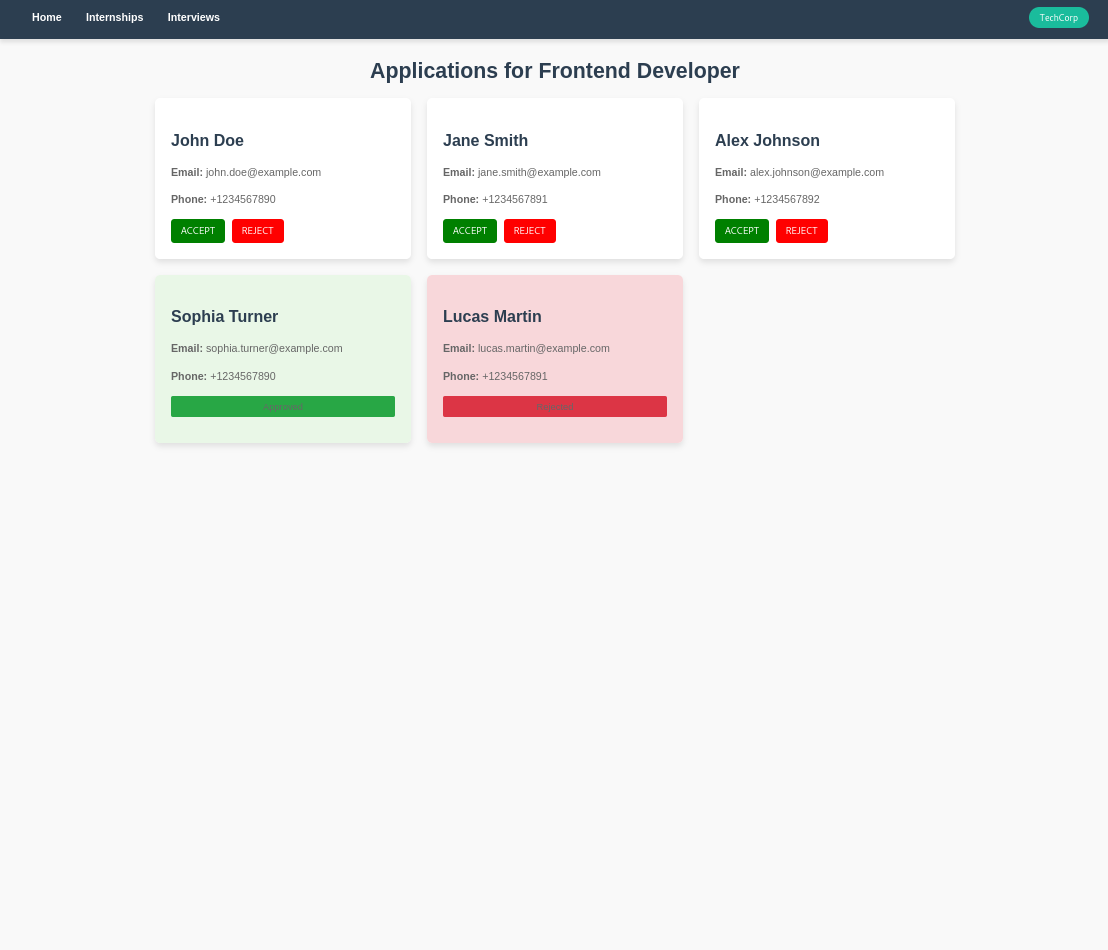
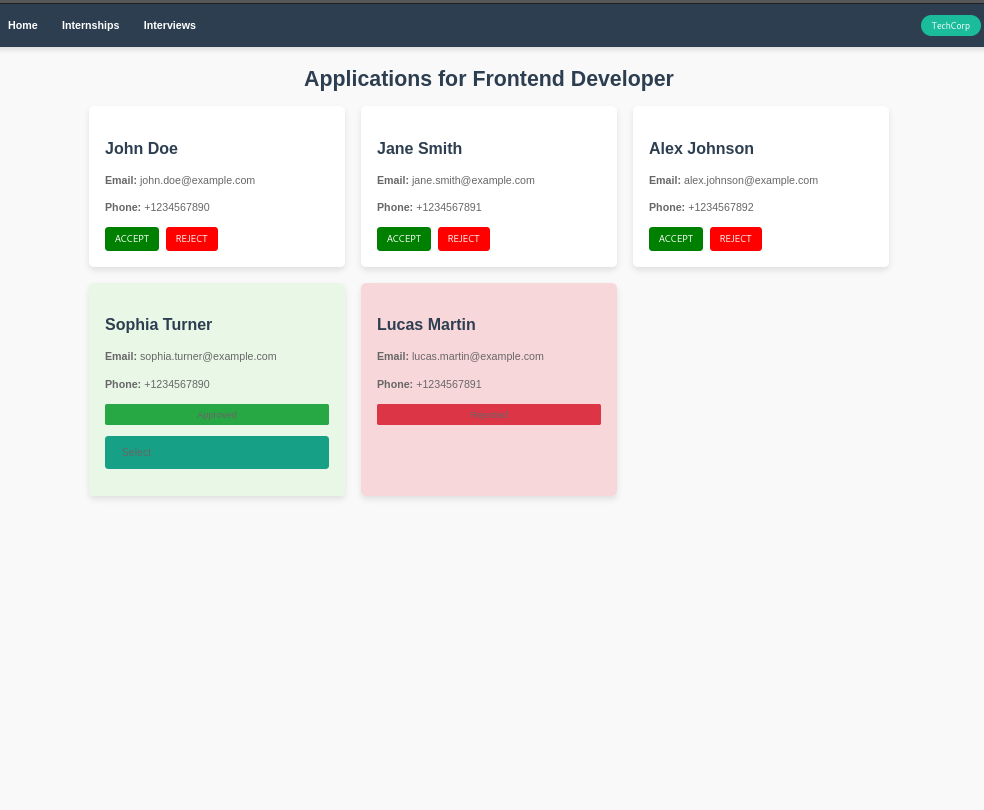
[ADD] UC14: company admits a student to an internship

Changed region(s): [[0.0, 0.0, 1.0, 0.6173]]

diff --git a/RASD/content/content.tex b/RASD/content/content.tex
@@ -13,6 +13,7 @@ The main goals of the platform are the following:
     \item Students find internships matching their profile and experiences
     \item Students proactively look for internships that align with their skills, experiences, and preferences
     \item Companies are facilitated in managing interviews
+    \item Companies manage ongoing internships
     \item Students provide feedback about the internships
     \item Companies provide feedback about the internships
 \end{enumerate}
@@ -20,8 +21,8 @@ The main goals of the platform are the following:
 \section{Scope }
 In this section, we will define S\&C platform domain.\newline
 There are two primary users of the system: \textbf{Students} and \textbf{Companies}.\newline
-Students are the individuals seeking internship opportunities. They can create and manage their profiles by uploading their CVs, and specifying their skills, experiences, and preferences. The platform will notify students of relevant internship opportunities based on their profile information and allow them to apply directly. In addition, students can track the status of their applications and receive feedback from companies. The system also provides a recommendation engine to suggest internships tailored to students' qualifications and preferences. Students can actively participate by proactively searching for internships or passively by receiving notifications when suitable opportunities arise.\newline
-Companies are the organizations offering internship opportunities. They will be able to post internship vacancies, specifying the required skills, tasks, technologies, and terms. Companies can manage and edit their internship postings, as well as review and evaluate student applications. The system will help companies identify students who best match their internship requirements through a recommendation system. Companies will also have tools to schedule interviews, manage selections, and collect feedback on students' performance during the interview process. 
+Students are the individuals seeking internship opportunities. They can create and manage their profiles by uploading their CVs. The platform will notify students of relevant internship opportunities based on their profile information and allow them to apply directly. In addition, students can track the status of their applications and receive feedback from companies. The system also provides a recommendation engine to suggest internships tailored to students' qualifications and preferences. Students can actively participate by proactively searching for internships or passively by receiving notifications when suitable opportunities arise.\newline
+Companies are the organizations offering internship opportunities. They will be able to post internship vacancies, specifying the required skills, tasks, technologies, and terms. Companies can manage and edit their internship postings, as well as review and evaluate student applications. The system will help companies identify students who best match their internship requirements through a recommendation system. Companies will also be able to schedule interviews, manage ongoing internships and check and respond to feedback provided by students.
 
 \subsection{World Phenomena }
 \begin{enumerate}[label={[WP\arabic{enumi}]}]
@@ -53,15 +54,14 @@ Companies are the organizations offering internship opportunities. They will be 
 \textbf{Machine controlled}
 \begin{enumerate}[label={[SP\arabic{enumi}]}]
     \setcounter{enumi}{12} % need to update if the number of world controlled changes
-    \item The system sends notifications to students about internships matching their profiles
-    \item The system sends notifications to companies about suitable student profiles
+    \item The system notifies students about internships matching their profiles
+    \item The system notifies to companies about suitable student profiles
     \item The system generates internship recommendations for students
     \item The system generates student profile recommendations for companies
-    \item The system facilitates scheduling interviews for companies and students
-    \item The system collects structured questionnaire responses during interviews
     \item The system prompts students to provide feedback
     \item The system prompts companies to provide feedback
-    \item The system tracks the status of matchmaking processes and ongoing internships
+    \item The system tracks the status of matchmaking processes
+    \item The system tracks the status of ongoing internships
 \end{enumerate}
 
 \section{Definitions, Acronyms, Abbreviations }
@@ -148,14 +148,11 @@ Company H wants to create an announcement for a newly available internship, so i
 \newline
 \newline
 \textbf{Company modifies an existing internship announcement}\newline
-Company I has changed some details regarding an existing internship and must now modify the announcement accordingly. They log in to the S\&C platform, and navigate to the "Internships" section. They select the internship that must be modified and click on the "Modify" button. They can now insert new information or change the old details, and at last confirm the changes by pressing on the "Submit" button.
+Company I has changed some details regarding an existing internship and must now modify the announcement accordingly. It logs in to the S\&C platform and navigates to the "Internships" section. It selects the internship that must be modified and clicks the "Modify" button. It can now insert new information or change the old details, and at last, confirm the changes by pressing the "Submit" button.
 \newline
 \newline
 \textbf{Company deletes an existing internship announcement}\newline
-Company J has decided to remove an internship opportunity and must now delete the announcement on the platform. They log in to the S\&C platform, and navigate to the "Internships" section. They select the internship that must be deleted and click on the "Delete" button. A pop-up warning asks Company J for confirmation, and when the "Confirm" button is pressed the post is removed by the system.
-\newline
-\newline
-\textbf{Company deletes an existing internship announcement}\newline
+Company J has decided to remove an internship opportunity and must now delete the announcement on the platform. It logs in to the S\&C platform and navigates to the "Internships" section. It selects the internship that must be deleted and clicks on the "Delete" button. A pop-up warning asks Company J for confirmation, and when the "Confirm" button is pressed the post is removed by the system.
 \newline
 \newline
 \textbf{Company reviews a student's application}\newline
@@ -169,7 +166,7 @@ Within the internship's page, Company M accesses the "Suggestions" section, wher
 \newline
 \newline
 \textbf{Student and company set up the interview}\newline
-After approving Student O's application, Company P navigates to the "Interviews" section of the S\&C platform. Here, Company P browses the students which were accepted for an interview, finds Student O's entry where it's possible to select and propose three possible dates and times for the interview through a calendar pop-up.
+After approving Student O's application, Company P navigates to the "Interviews" section of the S\&C platform. Here, Company P browses the students who were accepted for an interview, and finds Student O's entry where it's possible to select and propose three possible dates and times for the interview through a calendar pop-up.
 Student O, upon logging into the platform, accesses the "Applications--" section to view the proposed dates. Student O can either:
 accept one of the suggested dates by clicking on it, confirming the choice; 
 request a new set of dates by clicking the "Reschedule" button, prompting Company N to provide alternative options.
@@ -179,18 +176,27 @@ request a new set of dates by clicking the "Reschedule" button, prompting Compan
 At the agreed-upon date and time, Company Q and Student R log into the S\&C platform using their credentials. Both navigate to the "Interviews" section, where a link to the third-party meeting application is available. By clicking the link, they are redirected to the meeting platform and start the interview.
 \newline
 \newline
+\textbf{Company admits a student to an internship}\newline
+Company S has decided to admit Student T to the internship they interviewed for. Company S logs in to the S\&C platform and navigates to the "Internships" section. It selects the internship it wants to admit Student T to. Within the internship's page, Company S accesses the "Applications" section, where it finds Student T's approved application, it clicks on the "Select" button. A pop-up asks Company S for confirmation, and when the "Confirm" button is pressed Student T is admitted to the internship.
+\newline
+\newline
+\textbf{Student checks for an internship admission} \newline
+Student U wants to check if they've been admitted to the internship offered by Company V. They log in to the S\&C platform and navigate to the "Internships" section. Within the internship's page, Student U can see in the "Ongoing internships" section the list of internships they've been admitted to.
+\newline
+\newline
 \textbf{Student provides feedback on an internship}\newline
-Student S logs into the S\&C platform to provide feedback about an internship with Company T. From the homepage, Student S navigates to the "Internships" section and selects a specific internship. There's a comment section where Student S can provide feedback or respond to comments from Company T about Student S. After typing their comment, they click the "Submit" button, and the comment is displayed in the section.
+Student W logs into the S\&C platform to provide feedback about an internship with Company X. From the homepage, Student W navigates to the "Internships" section and selects a specific internship. There's a comment section where Student W can provide feedback or respond to comments from Company X about Student W. After typing their comment, Student W clicks the "Submit" button, and the comment is displayed in the section.
 \newline
 \newline
 \textbf{Company provides feedback on a student}\newline
-Company U logs into the S\&C platform to provide feedback about Student V. From the homepage, Company U navigates to the "Internships" section and selects a specific internship. There's a comment section where Company U can provide feedback or respond to comments from Student V about the internship with Company U. After typing their comment, it clicks the "Submit" button, and the comment is displayed in the section.
+Company Y logs into the S\&C platform to provide feedback about Student Z. From the homepage, Company Y navigates to the "Internships" section and selects a specific internship. There's a comment section where Company Y can provide feedback or respond to comments from Student Z about the internship with Company Y. After typing their comment, Company Y clicks the "Submit" button, and the comment is displayed in the section.
 
 \subsection{Domain Class Diagrams }
 \includegraphics[width=\textwidth]{RASD/images/DomainClassDiagram.png}
 \textbf{Domain Class Diagram Description }\newline
 The Student class is associated with a single CV, which is the document used to apply for an internship. A Student submits their application in response to an Internship Announcement. Each application has a Status that is initially set to PENDING. After the company reviews the application, the Status transitions to either APPROVED or REJECTED.
-For applications marked as APPROVED, the system facilitates scheduling an interview between the student and the company through a third-party meeting application.
+For applications marked as APPROVED, the system facilitates scheduling an interview between the student and the company through a third-party meeting application.4
+After the interview, companies decide which students to admit to the internship.
 Companies can offer multiple Internships, which are advertised through Internship Announcements. These announcements are the interface where students submit their applications.
 The system incorporates a Recommendation Engine that provides two types of recommendations:
 \begin{enumerate}
@@ -256,6 +262,10 @@ The system allows companies to review students' profiles and CVs to identify pot
 The system enables companies and students to meet through an online interface for conducting interviews.
 \newline
 \newline
+\textbf{Student selection}\newline
+The system allows companies to select students that have partook in an interview for an internship to be admitted for that specific internship.
+\newline
+\newline
 \textbf{Student feedback submission}\newline
 The system collects feedback from students about their internship experiences. After completing an internship, students are asked to provide their opinions and evaluations through a dedicated feedback form on the platform. If the company wishes, it can leave a comment regarding the student's feedback.
 \newline
@@ -270,7 +280,7 @@ Two types of users interact with the platform: students and companies
 \subsection{Student }
 Students can create an account and log in to access the platform, where they can actively search for and apply to internship opportunities or wait to receive personalized notifications for internships that align with their profile. They can also coordinate with companies to schedule interviews through the platform. After completing an internship, students have the opportunity to provide feedback about their experience.
 \subsection{Company }
-Companies can create an account and log in to access the platform, where they can post detailed internship announcements for students to view and apply to. They can review student applications, approve or reject them as needed, and send notifications to students regarding internships that match their profiles. Companies can also coordinate with students to schedule interviews and provide feedback on the student’s performance after the completion of an internship.
+Companies can create an account and log in to access the platform, where they can post detailed internship announcements for students to view and apply to. They can review student applications, approve or reject them as needed, and notify students regarding internships that match their profiles. Companies can also coordinate with students to schedule interviews, admit students to an internship after an interview and provide feedback on the student’s performance after the completion of an internship.
 
 \section{Assumptions, dependencies and constraints }
 \subsection{Domain Assumptions }
@@ -280,7 +290,7 @@ The following domain assumptions are properties or conditions that the system wi
     \item Students provide accurate and up-to-date CVs
     \item Companies properly insert information about internships in the announcements
     \item Both parties attend the scheduled interviews on the platform
-    \item Students carry out the internships offered by the companies they were chosen from
+    \item Students carry out the internships offered by the companies they were chosen for
 \end{enumerate}
 
 \newpage
@@ -416,16 +426,22 @@ The user uses an internet connection to access the platform. The platform must b
     \item The System shall allow Students to ask Companies to provide new possible dates for an interview
     \item The System shall allow the hosting of online interviews between Companies and Students via a third party app
 \end{enumerate}
-\textbf{Student feedback submission}
+\textbf{Student admission}
 \begin{enumerate}[label={[R\arabic{enumi}]}]
     \setcounter{enumi}{21}
+    \item The System shall allow companies to select students to admit to internships they interviewed for
+    \item The System shall allow students to check for their admission to internships they interviewed for
+\end{enumerate}
+\textbf{Student feedback submission}
+\begin{enumerate}[label={[R\arabic{enumi}]}]
+    \setcounter{enumi}{23}
     \item The System shall ask Students to provide feedback about an internship by filling out a form
     \item The System shall allow Companies to publicly comment on the feedback they received
     \item The System shall allow Students to see feedback about Companies from past internships they offered
 \end{enumerate}
 \textbf{Company feedback submission}
 \begin{enumerate}[label={[R\arabic{enumi}]}]
-    \setcounter{enumi}{24}
+    \setcounter{enumi}{26}
     \item The System shall ask Companies to provide feedback about the Student's performance by filling out a form
     \item The System shall allow Students to publicly comment on the feedback they received 
     \item The System shall allow Companies to see feedback about Students from past internships they partook in
@@ -883,7 +899,41 @@ The user uses an internet connection to access the platform. The platform must b
     \textbf{[UC13] Student and company meet for the interview}
     \newline
     \newline
-    
+
+
+    \begin{tabular}{|p{3cm}|p{9cm}|}
+    \hline
+    \textbf{Attribute} & \textbf{Description} \\ \hline
+    \textbf{Name} & Company admits a student to an internship \\ \hline
+    \textbf{Actors} & 
+    \begin{itemize}
+        \item Company
+    \end{itemize} \\ \hline
+    \textbf{Entry Condition} & 
+    \begin{itemize}
+        \item The company has logged in to the S\&C platform
+        \item The company interviewed the student it wants to admit
+    \end{itemize}\\ \hline
+    \textbf{Event Flow} & 
+    \begin{enumerate}
+        \item The company presses the "Internships" button
+        \item The company selects the internship they want to admit a student to
+        \item The company presses the "Applications" button
+        \item The company presses the "Select" button of the student it wants to admit to the internship
+    \end{enumerate} \\ \hline
+    \textbf{Exit Condition} & 
+    \begin{itemize}
+        \item The student has successfully admitted to the internship
+    \end{itemize}\\ \hline
+    \textbf{Exceptions} & 
+    \\ \hline
+    \end{tabular}
+    \newline
+    \newline
+    \textbf{[UC14] Company admits a student to an internship}
+    \newline
+    \newline
+
     
     \begin{tabular}{|p{3cm}|p{9cm}|}
     \hline
@@ -917,7 +967,7 @@ The user uses an internet connection to access the platform. The platform must b
     \end{tabular}
     \newline
     \newline
-    \textbf{[UC14] Student provides feedback on an internship}
+    \textbf{[UC15] Student provides feedback on an internship}
     \newline
     \newline
     
@@ -955,7 +1005,7 @@ The user uses an internet connection to access the platform. The platform must b
     \end{tabular}
     \newline
     \newline
-    \textbf{[UC15] Company provides feedback on a student}
+    \textbf{[UC16] Company provides feedback on a student}
     \newline
     \newline
 
@@ -992,7 +1042,7 @@ The user uses an internet connection to access the platform. The platform must b
     \end{tabular}
     \newline
     \newline
-    \textbf{[UC16] Student answers a comment about them}
+    \textbf{[UC17] Student answers a comment about them}
     \newline
     \newline
     
@@ -1030,7 +1080,7 @@ The user uses an internet connection to access the platform. The platform must b
     \end{tabular}
     \newline
     \newline
-    \textbf{[UC17] Company answers a comment about an internship if offered}
+    \textbf{[UC18] Company answers a comment about an internship if offered}
     \newline
     \newline
     
@@ -1079,17 +1129,20 @@ The user uses an internet connection to access the platform. The platform must b
     \includegraphics[width=\textwidth]{RASD/images/sequenceDiagrams/InterviewMeetupSequenceDiagram.png}
     \textbf{[UC13] Student and company meet for the interview}
 
+    \includegraphics[width=\textwidth]{RASD/images/sequenceDiagrams/CompanyAdmitsStudentToInternship.png}
+    \textbf{[UC14] Company admits a student to an internship}
+
     \includegraphics[width=\textwidth]{RASD/images/sequenceDiagrams/StudentFeedbackSequenceDiagram.png}
-    \textbf{[UC14] Student provides feedback on an internship}
+    \textbf{[UC15] Student provides feedback on an internship}
 
     \includegraphics[width=\textwidth]{RASD/images/sequenceDiagrams/CompanyFeedbackSequenceDiagram.png}
-    \textbf{[UC15] Company provides feedback on a student}
+    \textbf{[UC16] Company provides feedback on a student}
 
     \includegraphics[width=\textwidth]{RASD/images/sequenceDiagrams/StudentAnswerSequenceDiagram.png}
-    \textbf{[UC16] Student answers a comment about them}
+    \textbf{[UC17] Student answers a comment about them}
 
     \includegraphics[width=\textwidth]{RASD/images/sequenceDiagrams/CompanyAnswerSequenceDiagram.png}
-    \textbf{[UC17] Company answers a comment about an internship if offered}
+    \textbf{[UC18] Company answers a comment about an internship if offered}
 
 \end{center}
 
